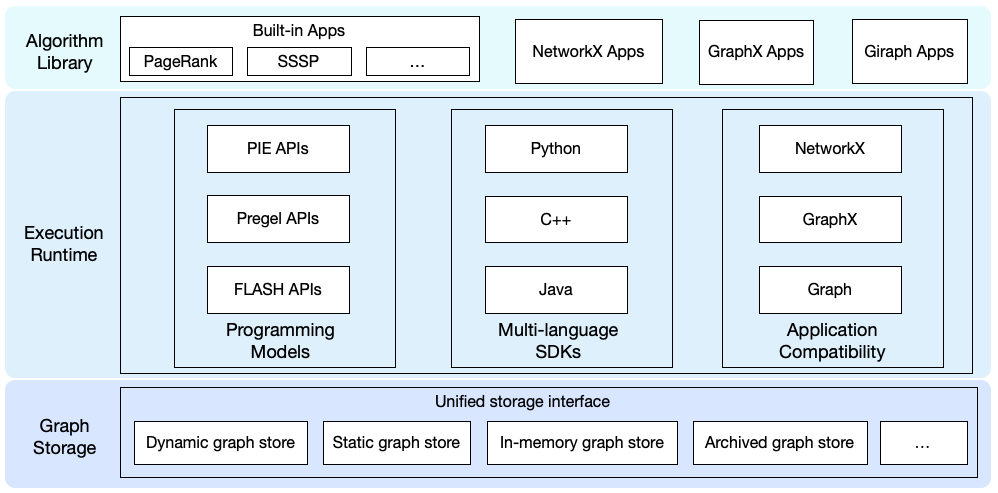
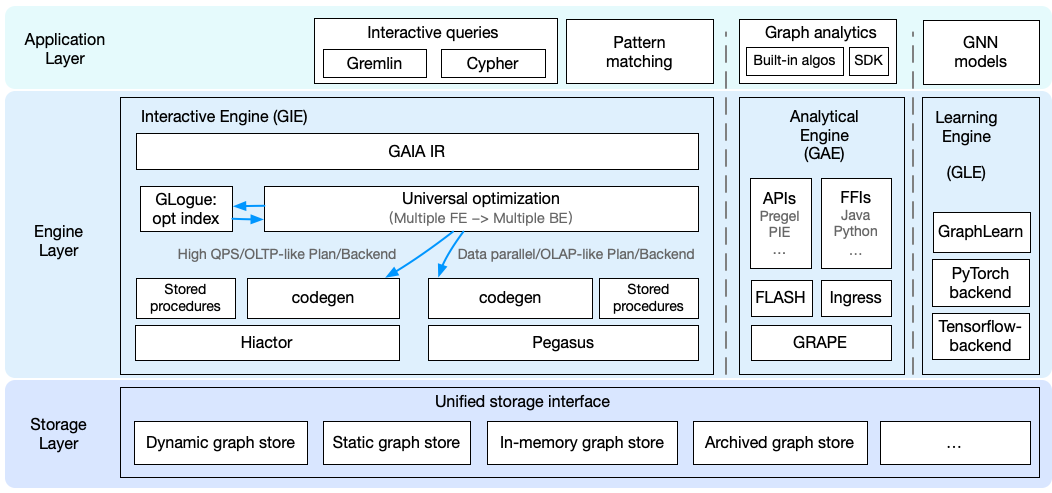
revise gae arch

diff --git a/docs/analytical_engine/overview_and_architecture.md b/docs/analytical_engine/overview_and_architecture.md
@@ -1,10 +1,10 @@
 # Overview and Architecture
 
-In GraphScope, Graph Analytics Engine (GAE) is responsible for handling various graph analytics algorithms. GAE derives from [GRAPE](https://dl.acm.org/doi/10.1145/3282488), a graph processing system proposed on SIGMOD 2017. GRAPE differs from prior systems in its ability to parallelize sequential graph algorithms as a whole. Different from other parallel graph processing systems which need to recast the existing sequential algorithm into [a new model](https://graphscope.io/docs/latest/analytical_engine/vertex_centric_models.html) (e.g., Pregel and GAS), in GRAPE, sequential algorithms can be easily “plugged into” with only minor changes and get parallelized to handle large graphs efficiently. In addition to the ease of programming, GRAPE is designed to be highly efficient and flexible, to cope the scale, variety and complexity from real-life graph applications. 
+In GraphScope, Graph Analytical Engine (GAE) is responsible for handling various graph analytics algorithms. GAE derives from [GRAPE](https://dl.acm.org/doi/10.1145/3282488), a graph processing system proposed on SIGMOD 2017. GRAPE differs from prior systems in its ability to parallelize sequential graph algorithms as a whole. Different from other parallel graph processing systems which need to recast the existing sequential algorithm into [a new model](https://graphscope.io/docs/latest/analytical_engine/vertex_centric_models.html) (e.g., Pregel and GAS), in GRAPE, sequential algorithms can be easily “plugged into” with only minor changes and get parallelized to handle large graphs efficiently. In addition to the ease of programming, GRAPE is designed to be highly efficient and flexible, to cope the scale, variety and complexity from real-life graph applications. 
 
 ## Architecture
 
-GAE is a full-fledged, in-production system for graph analytics over large scale graph data. As shown in the following figure, there exist three major layers in GAE, namely graph storage, execution runtime and algorithm library. Next, we give an overview to each of them below.
+GAE is a full-fledged, in-production system for graph analytics algorithms over large scale graph data. As shown in the following figure, there exist three major layers in GAE, namely storage layer, engine layer and application layer. Next, we give an overview to each of them below.
 
 :::{figure-md}
 
@@ -15,11 +15,11 @@ GAE is a full-fledged, in-production system for graph analytics over large scale
 Architecture of GAE. 
 :::
 
-- Graph storage: Graph data in real-life is extremely large scale, and thus graph storage stores graph data in a distributed fashion. The graph storage consists of different graph formats with different features. Although there exist diverse types of graph storage, unified interfaces for graph storage are provided for GAE as well as other computation engines of GraphScope, and thus GAE does not care about how each type of graph storage is implemented.
-- Execution runtime: At the core of GAE is its execution runtime. It offers user-friendly interfaces for graph library, supporting various programming models and programming languages, so that users can develop their algorithms freely. GAE implements many optimization techniques in its execution runtime, such as pull/push dynamic switching, cache-efficient memory layout, and pipelining, to achieve better performance.
-- Algorithm library: While graph analytics algorithms can be directly written using the interfaces offered by graph storage and execution runtime, we have built an algorithm library consisting of common algorithms for various application domains, to ease the development of new graph applications. In addition, GAE has implemented the support for NetworkX, Giraph and GraphX, and existing algorithms developed for NetworkX, Giraph and GraphX can directly run on GAE directly with no or some small changes.
+- Storage layer: Graph data in real-life is extremely large scale, and thus graph storage stores graph data in a distributed fashion. The graph storage consists of different graph formats with different features. Although there exist diverse types of graph storage, unified interfaces for graph storage are provided for GAE as well as other computation engines of GraphScope, and thus GAE does not care about how each type of graph storage is implemented.
+- Engine layer: At the core of GAE is its engine layer. It offers user-friendly interfaces for graph algorithms, supporting various programming models, programming languages and computation patterns, so that users can develop their algorithms freely. GAE implements many optimization techniques in its engine layer, such as pull/push dynamic switching, cache-efficient memory layout, and pipelining, to achieve better performance.
+- Application layer: The application layer offers an application SDK which provides user-friendly interfaces of accessing graph structural/property data, and communication between different sub-graphs (fragments), so that users can develop their own algorithms easily. While graph analytics algorithms can be directly written using the application SDK, we have built a built-in algorithm library consisting of common algorithms for various application domains, to ease the development of new graph applications.
 
-## Graph Storage
+## Storage Layer
 
 The graph data is represented with the [property graph model](https://www.dataversity.net/what-is-a-property-graph/) in GraphScope. A property graph is a directed graph in which vertices and edges can have a set of properties. Every entity (vertex or edge) is identified by a unique identifier (`ID`), and has a (`label`) indicating its type or role. Each property is a key-value pair with combination of entity ID and property name as the key. 
 
@@ -47,22 +47,35 @@ An example of edge-cut partitioning.
 
 The graph storage consists of multiple types of graph formats, and each format is dedicated to a specific scenario: some support real time graph update while others treat graph data as immutable data once created; some store graph data in memory for better performance, while others support persistent storage. Fortunately, all these storages are integrated with GRIN, a unified graph storage interface defined by GraphScope. Therefore, the computation engines are not aware of the implementation differences of different storages. Please check out [our introduction to GRIN](https://graphscope.io/docs/latest/storage_engine/grin.html) for more details about graph storage interface.
 
-## Execution Runtime
+## Engine Layer
 
-There are three major components in execution framework runtime of GAE, which offers easy-to-use interfaces for algorithm library.
+There are four major components in the engine layer of GAE, which offers easy-to-use interfaces for graph algorithms.
 
-### Programming Model Component 
+### GRAPE Engine
 
-Currently, GAE has supported three programming models: Pregel, PIE and FLASH. [Pregel](https://graphscope.io/docs/latest/analytical_engine/vertex_centric_models.html#pregel-model) is a widely-applied vertex-centric programming model in existing popular graph processing systems, such as GraphX and Giraph. [PIE](https://graphscope.io/docs/latest/analytical_engine/programming_model_pie.html) is proposed in GRAPE, and it can automatically parallelize existing sequential graph algorithms with some minor changes. [FLASH](https://graphscope.io/docs/latest/analytical_engine/flash.html) is a flexible programming model which can help users to implement complex graph algorithms easily.
+The foundation of the engine layer is GRAPE, which offers core functions for graph analytics, including accessing to vertices/edges of a sub-graph (fragment), visiting property data of vertices/edges, state synchronization between different fragments, and intermediate data management.  Meanwhile, GRAPE applies many graph-level optimizations, such as indexing, compression, dynamic push/push switch, pipelining, and load balancing, to achieve better performance. Please refer to [this](https://dl.acm.org/doi/10.1145/3282488) for more details about these optimizations.
 
-### Multi-language SDKs
+### Programming Model APIs 
 
-Multi-language SDKs are provided by GAE. Users choose to write their own algorithms in either C++, Java or Python. With Python, users can still expect a high performance. GAE integrated a compiler built with Cython. It can generate efficient native code from Python algorithms behind the scenes, and dispatch the code to the GraphScope cluster for execution. The SDKs further lower the total cost of ownership of graph analytics.
+Currently, GAE has supported APIs of three programming models: Pregel, PIE and FLASH. [Pregel](https://graphscope.io/docs/latest/analytical_engine/vertex_centric_models.html#pregel-model) is a widely-applied vertex-centric programming model in existing popular graph processing systems, such as GraphX and Giraph. [PIE](https://graphscope.io/docs/latest/analytical_engine/programming_model_pie.html) is proposed in GRAPE, and it can automatically parallelize existing sequential graph algorithms with some minor changes. [FLASH](https://graphscope.io/docs/latest/analytical_engine/flash.html) is a flexible programming model which can help users to implement complex graph algorithms easily. Users can freely choose one of these three programming models according to their backgrounds and demands.
 
-### Application Compatibility Component
+### FFIs
 
-The execution runtime of GAE is also compatible with other popular graph processing systems. Specifically, it is compatible with the graph manipulation APIs and graph algorithms, and thus a program written with NetworkX can directly run on GAE with only some small changes. In addition, we have implemented the support for Pregel model. As a result, you can run your graph applications implemented in [Giraph](https://graphscope.io/docs/latest/analytical_engine/tutorial_run_giraph_apps.html) or [GraphX](https://graphscope.io/docs/latest/analytical_engine/tutorial_run_graphx_apps.html) on GAE directly.
+The GRAPE engine is written with C++ for better performance, and GAE also provides Python and Java interfaces through FFI (Foreign Function Interface). With Python, it is natural and easy for GraphScope to inter-operate with other Python data processing systems such as Pandas and Mars. Based on an efficient FFI for Java and C++ [fastFFI](https://github.com/alibaba/fastFFI), GAE allows users to write Java applications and run these applications on GAE directly. Please check out our tutorials on how to develop algorithms with Python and Java.
 
-## Algorithm Library
+- [Tutorial: Develop algorithms in Python](https://graphscope.io/docs/latest/analytical_engine/tutorial_dev_algo_python.html)
+- [Tutorial: Develop your Algorithm in Java with PIE Model](https://graphscope.io/docs/latest/analytical_engine/tutorial_dev_algo_java.html)
 
-GAE of GraphScope provides [20 graph analytics algorithms](https://graphscope.io/docs/latest/analytical_engine/builtin_algorithms.html) as built-in algorithms, and users can directly invoke them. GraphScope is compatible with NetworkX APIs, and thus diverse kinds of [built-in algorithms in NetworkX](https://networkx.org/documentation/stable/reference/algorithms/index.html) can also be directly invoked by users. In total, over 100 build-in graph analytical algorithms can be directly executed over GraphScope, without any developing effort. In addition, we have implemented the support for Pregel model in GAE, and graph aglorithms implemented in Giraph or GraphX can also be directly run on GAE.
+### Incremental Computation Engine 
+
+GAE also supports incremental computation over graph data via the [Ingress](http://vldb.org/pvldb/vol14/p1613-gong.pdf) engine, where we apply a batch algorithm to compute the result over the original graph *G* once, followed by employing an incremental algorithm to adjust the old result in response to the input changes *$\Delta$**G* to *G*. To achieve this , based on the dynamic graph storage, we have implemented an Ingress fragment which can capture the changes between original and new graphs. Please check out [our detailed introduction to the Ingress engine](https://graphscope.io/docs/latest/analytical_engine/ingress.html) for more details.
+
+
+## Application Layer
+
+GAE provides C++, Python and Java SDKs for graph applications, where users can freely choose programming models, programming languages, and computation patterns (batch computation or incremental computation) to develop their own applications. GAE of GraphScope also provides [20 graph analytics algorithms](https://graphscope.io/docs/latest/analytical_engine/builtin_algorithms.html) as built-in algorithms, and users can directly invoke them. GraphScope is compatible with NetworkX APIs, and thus diverse kinds of [built-in algorithms in NetworkX](https://networkx.org/documentation/stable/reference/algorithms/index.html) can also be directly invoked by users. In total, over 100 build-in graph analytical algorithms can be directly executed over GraphScope, without any developing effort. In addition, we have implemented the support for Pregel model in GAE, and graph aglorithms implemented in Giraph or GraphX can also be directly run on GAE. Please refer to the following tutorials on how to run NetworkX/Giraph/GraphX applications on GAE.
+
+- [Tutorial: Graph Operations with NetowrkX APIs](https://graphscope.io/docs/latest/analytical_engine/tutorial_networkx_operations.html)
+- [Tutorial: Graph Algorithms with NetowrkX APIs](https://graphscope.io/docs/latest/analytical_engine/tutorial_networkx_algorithms.html)
+- [Tutorial: Run Giraph Applications on GraphScope](https://graphscope.io/docs/latest/analytical_engine/tutorial_run_giraph_apps.html)
+-[Tutorial: Run GraphX Applications on GraphScope](https://graphscope.io/docs/latest/analytical_engine/tutorial_run_graphx_apps.html)
